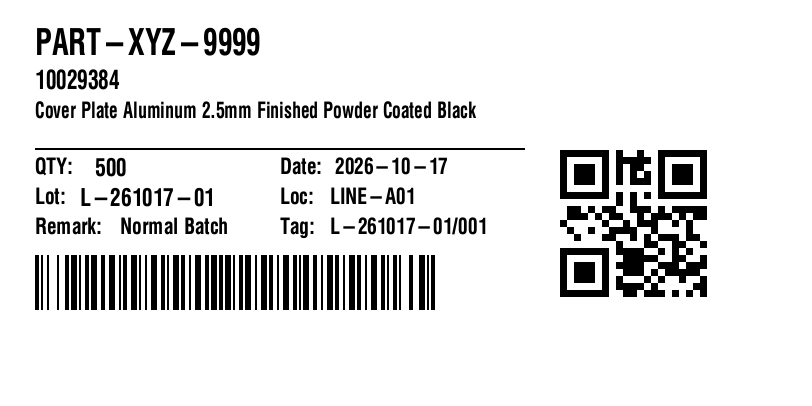
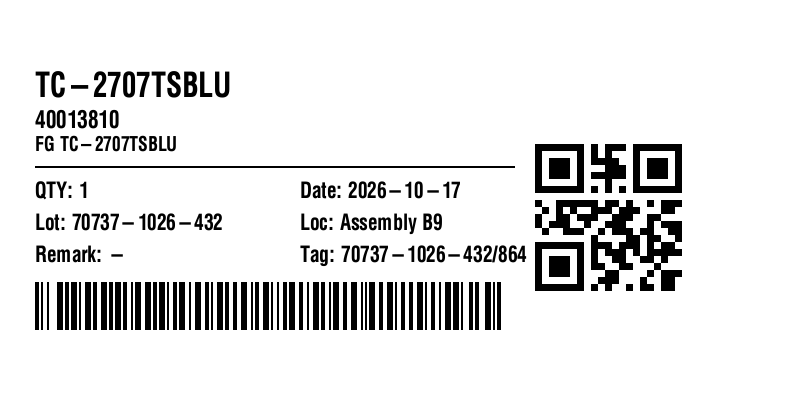
fix(production): apply exact 18% vertical padding and centered layout to ZPL 08:25 - 08:30 19/10/26

Changed region(s): [[0.0308, 0.0591, 0.8929, 0.8276]]

diff --git a/MES/page/production/script/thermalPrinter.js b/MES/page/production/script/thermalPrinter.js
@@ -126,24 +126,18 @@
 ^LL${this.DOTS_HEIGHT}
 ^PON
 ^LH0,0
-^FO35,28^A0N,36,30^FD${partNo}^FS
-^FO35,70^A0N,26,22^FD${sapNo}^FS
-^FO35,102^A0N,22,18^FB490,2,0,L^FD${desc}^FS
-^FO35,148^GB490,2,2^FS
-^FO35,158^A0N,22,20^FDQTY:^FS
-^FO95,158^A0N,24,22^FD${qty}^FS
-^FO280,158^A0N,22,20^FDDate:^FS
-^FO335,158^A0N,22,20^FD${prodDate}^FS
-^FO35,188^A0N,22,20^FDLot:^FS
-^FO80,188^A0N,24,22^FD${manualLot}^FS
-^FO280,188^A0N,22,20^FDLoc:^FS
-^FO330,188^A0N,22,20^FD${locName}^FS
-^FO35,218^A0N,22,20^FDRemark:^FS
-^FO120,218^A0N,22,20^FD${remark}^FS
-^FO280,218^A0N,22,20^FDTag:^FS
-^FO330,218^A0N,22,20^FD${scanId}^FS
-^FO35,255^BY2,2,55^BCN,55,N,N,N^FD${scanId}^FS
-^FO560,95^BQN,2,7^FDMA,${scanId}^FS
+^FO35,72^A0N,34,30^FD${partNo}^FS
+^FO35,110^A0N,24,22^FD${sapNo}^FS
+^FO35,136^A0N,20,18^FB480,2,0,L^FD${desc}^FS
+^FO35,166^GB480,2,2^FS
+^FO35,182^A0N,22,20^FDQTY: ${qty}^FS
+^FO300,182^A0N,22,20^FDDate: ${prodDate}^FS
+^FO35,214^A0N,22,20^FDLot: ${manualLot}^FS
+^FO300,214^A0N,22,20^FDLoc: ${locName}^FS
+^FO35,246^A0N,22,20^FDRemark: ${remark}^FS
+^FO300,246^A0N,22,20^FDTag: ${scanId}^FS
+^FO35,282^BY2,2,48^BCN,48,N,N,N^FD${scanId}^FS
+^FO540,96^BQN,2,7^FDMA,${scanId}^FS
 ^XZ`;
         },
 
